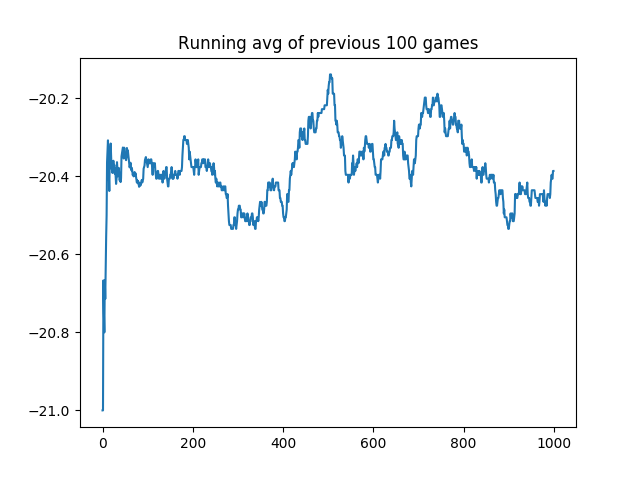
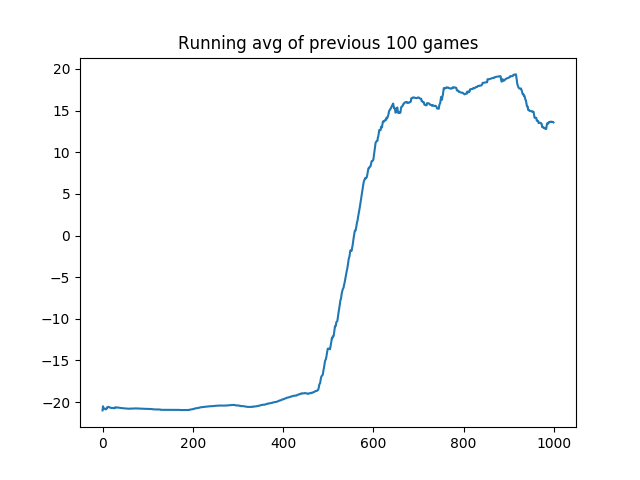
fixed bug that prevented training (+ 0.01 * entropy_loss instead of "- 0.01 * entropy_loss")

diff --git a/actor_critic.py b/actor_critic.py
@@ -19,8 +19,9 @@ class ActorCritic(nn.Module):
         self.conv_3 = nn.Conv2d(32, 32, 3, stride=2, padding=1)
         self.conv_4 = nn.Conv2d(32, 32, 3, stride=2, padding=1)
 
-        self.conv_shape = self.calc_conv_shape(input_dims)
-        self.gru = nn.GRU(input_size=self.conv_shape, hidden_size=256)
+        conv_shape = self.calc_conv_shape(input_dims)
+        # self.gru = nn.GRU(input_size=self.conv_shape, hidden_size=256)
+        self.gru = nn.GRUCell(conv_shape, 256)
         self.pi = nn.Linear(256, n_actions)
         self.v = nn.Linear(256, 1)
 
@@ -46,12 +47,12 @@ class ActorCritic(nn.Module):
         x = F.elu(self.conv_4(x))
         # print(x.size())
         # x.size()[0] is needed to batch data, flatten the rest
-        x = x.view((x.size()[0], -1)).unsqueeze(0)
+        x = x.view((x.size()[0], -1))# .unsqueeze(0)
         # print(x.size())
 
         # hx = hx[None, :]
         # hx = hx.unsqueeze(0)
-        _, hx = self.gru(x, (hx))
+        hx = self.gru(x, (hx))
         pi = self.pi(hx)
         value = self.v(hx)
 
@@ -86,7 +87,8 @@ class ActorCritic(nn.Module):
     def calc_cost(self, new_state, hx, done, rewards, values, log_probs):
         returns = self.calc_R(done, rewards, values)
         # values needed to compute delta
-        next_v = torch.zeros(1, 1, 1) if done else self.forward(torch.tensor([new_state], dtype=torch.float), hx)[1]
+        # next_v = torch.zeros(1, 1, 1) if done else self.forward(torch.tensor([new_state], dtype=torch.float), hx)[1]
+        next_v = torch.zeros(1, 1) if done else self.forward(torch.tensor([new_state], dtype=torch.float), hx)[1]
         values.append(next_v.detach())
         values = torch.cat(values).squeeze()
         log_probs = torch.cat(log_probs)
@@ -94,7 +96,7 @@ class ActorCritic(nn.Module):
 
         # next_v[1:] because it is the t+1 timestep
         # values[:-1] value function for the state at time T
-        delta_t = rewards + self.gamma * next_v[1:] - values[:-1]
+        delta_t = rewards + self.gamma * values[1:] - values[:-1]
         n_steps = len(delta_t)
 
         gae = np.zeros(n_steps)
@@ -115,11 +117,12 @@ class ActorCritic(nn.Module):
 
         entropy_loss = (-log_probs * torch.exp(log_probs)).sum()
 
-        total_loss = actor_loss + critic_loss + 0.01 * entropy_loss  # 0.01 is Beta from the paper
+        total_loss = actor_loss + critic_loss - 0.01 * entropy_loss  # 0.01 is Beta from the paper
         return total_loss
 
 
 # input_dims = np.array([4,42,42])
+# ac = ActorCritic([4, 42, 42], 6)
 # input_dims = torch.tensor(input_dims)
 # conv_dim = torch.tensor([128])
 # net = ActorCritic(input_dims, 6)

diff --git a/worker.py b/worker.py
@@ -1,4 +1,3 @@
-import gym
 import numpy as np
 import torch
 from actor_critic import ActorCritic
@@ -21,14 +20,13 @@ def worker(name, input_shape, n_actions, global_agent, optimizer, env_id, n_thre
     """ when we call make, frame buffer must have channels last, but the input_shape has channel first, so we swap """
     frame_buffer = [input_shape[1], input_shape[2], 1]  # we use 1 because we know it will be grayscale
     env = make_env(env_id, shape=frame_buffer)
-
     # instantiate variables to dictate we want to play and keep track of the scores
     episode, max_eps, total_timestep, scores = 0, 1000, 0, []
     # iterate over eps
     while episode < max_eps:
         obs = env.reset()
         score, done, ep_step = 0, False, 0
-        hx = torch.zeros(1,1, 256)
+        hx = torch.zeros(1, 256)
         while not done:
             obs = torch.tensor([obs], dtype=torch.float)
             action, value, log_prob, hx = local_agent(obs, hx)
@@ -41,8 +39,9 @@ def worker(name, input_shape, n_actions, global_agent, optimizer, env_id, n_thre
             total_timestep += 1
             if ep_step % T_MAX == 0 or done:
                 rewards, values, log_probs = memory.sample_memory()
-                loss = local_agent.calc_cost(next_obs, hx, done, rewards, values, log_probs)
-                local_agent.zero_grad()
+                loss = local_agent.calc_cost(obs, hx, done, rewards, values, log_probs)
+                # local_agent.zero_grad()
+                optimizer.zero_grad()
                 """detach() operates on a tensor and returns the same tensor, which will be detached from the computation
                 graph at this point, so that the backward pass will stop at this point.
                 detach_() is the inplace operation of detach()"""
@@ -64,7 +63,7 @@ def worker(name, input_shape, n_actions, global_agent, optimizer, env_id, n_thre
             scores.append(score)
             avg_score = np.mean(scores[-100:])
             print('A3C episode {} thread {} of {} steps {:.2f}M score {:.2f}, avg score (100) {:.2f}'
-                  .format(episode, name, n_threads, total_timestep/1e6, score, avg_score))
+                    .format(episode, name, n_threads, total_timestep/1e6, score, avg_score))
 
     # plot learning curve, only for first agent
     if name == "1":

diff --git a/custom_env.py b/custom_env.py
@@ -54,6 +54,7 @@ class StackFrames(gym.ObservationWrapper):
     def __init__(self, env, repeat):
         super(StackFrames, self).__init__(env)
         self.repeat = repeat
+        # low=high=(4,42,42)
         self.observation_space = gym.spaces.Box(env.observation_space.low.repeat(repeat, axis=0),
                                                 env.observation_space.high.repeat(repeat, axis=0),
                                                 dtype=np.float32)

diff --git a/main.py b/main.py
@@ -1,8 +1,8 @@
 import os
 import torch.multiprocessing as mp
 from parallel_env import ParallelEnv
-os.environ['SET_NUM_THREAD'] = '4'
 from actor_critic import ActorCritic
+os.environ['OMP_NUM_THREADS'] = '1'
 
 """
 def worker:

diff --git a/parallel_env.py b/parallel_env.py
@@ -1,5 +1,4 @@
 import os
-import gym
 import torch.multiprocessing as mp
 from actor_critic import ActorCritic  # for the global agent
 from shared_adam import SharedAdam
